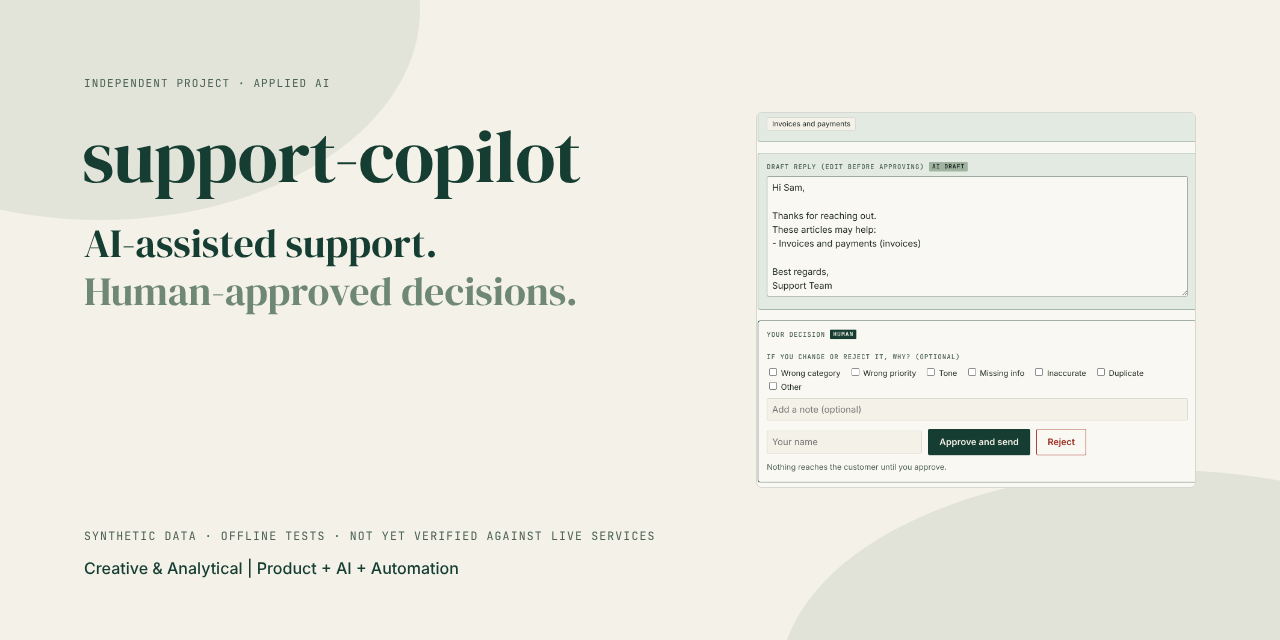
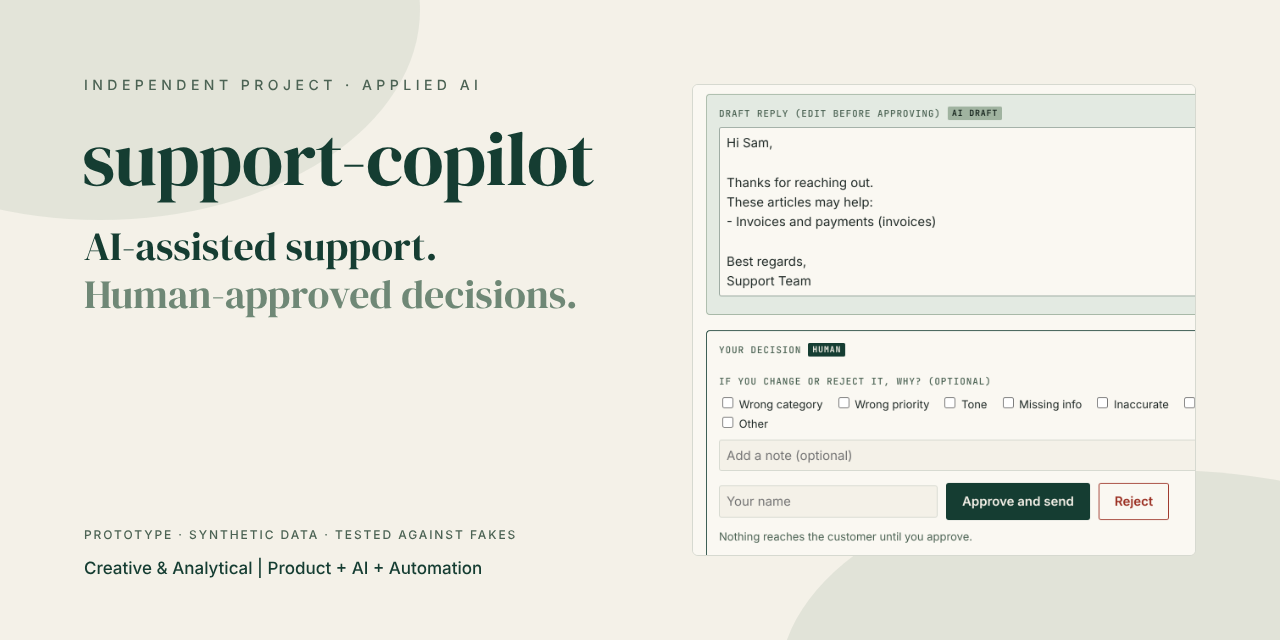
Audit images against the brand kit; README header and status table
- Social preview: two font families, larger product crop, status line; it is
  now also the README header (the old SVG cover could not load the kit fonts
  on GitHub and was off-kit).
- 4:5 graphic: official cream, one-line subtitle as in the kit template.
- Architecture footer says prototype, tested against fakes.
- README: navigation line, "What is verified" table in the kit's terms.
- docs/presentation.md: kit checklist.

Claude-Session: https://claude.ai/code/session_01QpPT1J8NubTvqn2LHj89y2

diff --git a/marketing/linkedin/src/post-graphic.html b/marketing/linkedin/src/post-graphic.html
@@ -1,20 +1,20 @@
 <!doctype html><html lang="en"><head><meta charset="utf-8"><title>support-copilot LinkedIn graphic</title>
 <link rel="stylesheet" href="../../../docs/src/brand.css">
 <style>
-body { width:1080px; height:1350px; overflow:hidden; position:relative; padding:0 66px; text-align:center; background:#F4F2EC; }
+body { width:1080px; height:1350px; overflow:hidden; position:relative; padding:0 66px; text-align:center; background:#F4F1E8; }
 .label { font: 500 24px var(--sans); letter-spacing:.42em; color: var(--charcoal); padding-top:62px; text-indent:.42em; }
 h1 { font: 400 112px/1.04 var(--serif); white-space:nowrap; letter-spacing:-.02em; color: var(--forest); margin-top:50px; }
 h1 span { color: var(--sage); display:block; }
 .sub { font: 400 29px/1.35 var(--sans); color: var(--charcoal); margin-top:50px; }
 .grid { display:grid; grid-template-columns:1fr 1fr; gap:16px; margin-top:58px; text-align:left; }
-.card { display:flex; align-items:center; gap:22px; height:108px; padding:0 22px; border:1.5px solid #D6D9D0; border-radius:18px; font: 500 28px/1.15 var(--sans); color:#10241C; }
+.card { display:flex; align-items:center; gap:22px; height:108px; padding:0 22px; border:1.5px solid #D6D9D0; border-radius:18px; font: 500 28px/1.15 var(--sans); color:var(--forest); }
 .ic { flex:none; width:64px; height:64px; border-radius:50%; background: var(--forest); display:flex; align-items:center; justify-content:center; }
-.band { margin-top:54px; padding:30px 20px; background:#DDE5DC; border:1.5px solid #D6D9D0; border-radius:18px; font: 500 30px var(--sans); color:#10241C; }
+.band { margin-top:54px; padding:30px 20px; background:#DDE5DC; border:1.5px solid #D6D9D0; border-radius:18px; font: 500 30px var(--sans); color:var(--forest); }
 .foot { position:absolute; left:66px; right:66px; bottom:44px; display:flex; justify-content:space-between; font: 400 26px var(--sans); color: var(--charcoal); }
 </style></head><body>
 <div class="label">CONCEPT PROJECT</div>
 <h1>AI prepares.<span>A person decides.</span></h1>
-<div class="sub">A copilot for support tickets. Synthetic data, offline tests,<br>every reply approved by a person.</div>
+<div class="sub">A copilot for support tickets. A person approves every reply.</div>
 <div class="grid"><div class="card"><span class="ic"><svg viewBox="0 0 24 24" width="30" height="30" fill="none" stroke="#F4F1E8" stroke-width="1.2" stroke-linecap="round" stroke-linejoin="round"><circle cx="6" cy="12" r="2.2"/><circle cx="18" cy="6" r="2.2"/><circle cx="18" cy="18" r="2.2"/><path d="M8 11.2 16 7M8 12.8 16 17"/></svg></span><span>Triage</span></div><div class="card"><span class="ic"><svg viewBox="0 0 24 24" width="30" height="30" fill="none" stroke="#F4F1E8" stroke-width="1.2" stroke-linecap="round" stroke-linejoin="round"><path d="M6 3h9l4 4v14H6zM15 3v4h4M9 12h7M9 16h7"/></svg></span><span>Grounded drafts</span></div><div class="card"><span class="ic"><svg viewBox="0 0 24 24" width="30" height="30" fill="none" stroke="#F4F1E8" stroke-width="1.2" stroke-linecap="round" stroke-linejoin="round"><path d="M4 13l2-7h12l2 7v5H4zM4 13h5l1 2h4l1-2h5"/></svg></span><span>Review queue</span></div><div class="card"><span class="ic"><svg viewBox="0 0 24 24" width="30" height="30" fill="none" stroke="#F4F1E8" stroke-width="1.2" stroke-linecap="round" stroke-linejoin="round"><path d="M6 16v-5a6 6 0 0 1 12 0v5l1.5 2h-15zM10 20a2 2 0 0 0 4 0"/></svg></span><span>Incidents and duplicates</span></div><div class="card"><span class="ic"><svg viewBox="0 0 24 24" width="30" height="30" fill="none" stroke="#F4F1E8" stroke-width="1.2" stroke-linecap="round" stroke-linejoin="round"><circle cx="12" cy="8" r="3.4"/><path d="M5.5 20c.8-3.6 3.3-5.5 6.5-5.5s5.7 1.9 6.5 5.5"/></svg></span><span>Customer context</span></div><div class="card"><span class="ic"><svg viewBox="0 0 24 24" width="30" height="30" fill="none" stroke="#F4F1E8" stroke-width="1.2" stroke-linecap="round" stroke-linejoin="round"><rect x="4" y="5" width="16" height="14" rx="1.5"/><path d="M4 10h16M10 5v14"/></svg></span><span>Feedback loop</span></div><div class="card"><span class="ic"><svg viewBox="0 0 24 24" width="30" height="30" fill="none" stroke="#F4F1E8" stroke-width="1.2" stroke-linecap="round" stroke-linejoin="round"><path d="M12 3l7 3v5c0 4.5-3 8-7 10-4-2-7-5.5-7-10V6z"/><path d="M9 12l2.2 2.2L15 10.5"/></svg></span><span>Guardrails</span></div><div class="card"><span class="ic"><svg viewBox="0 0 24 24" width="30" height="30" fill="none" stroke="#F4F1E8" stroke-width="1.2" stroke-linecap="round" stroke-linejoin="round"><rect x="4" y="4" width="16" height="6" rx="1.5"/><rect x="4" y="14" width="16" height="6" rx="1.5"/><path d="M7.5 7h.01M7.5 17h.01"/></svg></span><span>Ticket systems</span></div></div>
 <div class="band">AI proposes, deterministic rules decide, humans approve.</div>
 <div class="foot"><span>github.com/monicaslgc/support-copilot</span><span>MIT licensed</span></div>

diff --git a/docs/src/social-preview.html b/docs/src/social-preview.html
@@ -1,25 +1,26 @@
 <!doctype html><html lang="en"><head><meta charset="utf-8"><title>support-copilot social preview</title>
 <link rel="stylesheet" href="brand.css">
 <style>
+/* Two families only, as the kit asks: DM Serif Display and Inter. */
 body { width:1280px; height:640px; overflow:hidden; position:relative; }
 .blobs i:nth-child(1) { width:640px; height:420px; left:-220px; top:-200px; opacity:.2; }
 .blobs i:nth-child(2) { width:760px; height:420px; right:-260px; bottom:-250px; opacity:.22; }
+.label { font: 500 14px var(--sans); letter-spacing:.32em; text-transform:uppercase; color: var(--muted); }
 .copy { position:absolute; left:84px; top:76px; width:600px; }
-.copy .mono { color: var(--muted); }
-h1 { font: 400 74px/1.04 var(--serif); color: var(--forest); margin: 26px 0 24px -2px; letter-spacing:-.01em; }
+h1 { font: 400 76px/1.04 var(--serif); color: var(--forest); margin: 26px 0 24px -2px; letter-spacing:-.01em; }
 .tag { font: 400 40px/1.2 var(--serif); color: var(--forest); }
 .tag span { color: #6F8876; }
 .foot { position:absolute; left:84px; bottom:62px; width:600px; }
-.foot .mono { color: var(--muted); font-size: 11.5px; line-height:1.7; display:block; }
-.foot .brand { font: 500 16px var(--sans); color: var(--forest); margin-top: 12px; display:block; }
-.shot { position:absolute; right:84px; top:112px; width:440px; height:376px; overflow:hidden; border:1px solid var(--line); background: var(--paper); border-radius:6px; }
-.shot img { position:absolute; width:710px; left:-243px; top:-300px; }
+.foot .label { font-size: 12px; line-height:1.8; display:block; letter-spacing:.16em; }
+.foot .brand { font: 500 17px var(--sans); color: var(--forest); margin-top: 12px; display:block; }
+.shot { position:absolute; right:84px; top:84px; width:504px; height:472px; overflow:hidden; border:1px solid var(--line); background: var(--paper); border-radius:6px; }
+.shot img { position:absolute; width:1000px; left:-330px; top:-470px; }
 </style></head><body>
 <div class="blobs"><i></i><i></i></div>
-<div class="copy"><div class="mono">Independent project · Applied AI</div>
+<div class="copy"><div class="label">Independent project · Applied AI</div>
 <h1>support-copilot</h1>
 <div class="tag">AI-assisted support.<br><span>Human-approved decisions.</span></div></div>
-<div class="foot"><span class="mono">Synthetic data · offline tests · not yet verified against live services</span>
+<div class="foot"><span class="label">Prototype · synthetic data · tested against fakes</span>
 <span class="brand">Creative &amp; Analytical | Product + AI + Automation</span></div>
 <div class="shot"><img src="../review-queue.png" alt=""></div>
 </body></html>

diff --git a/docs/src/architecture.py b/docs/src/architecture.py
@@ -11,7 +11,7 @@ from pathlib import Path
 FOREST, CREAM, SAGE, CHAR = "#153D32", "#F4F1E8", "#A0B3A0", "#202A27"
 MUTED, BORDER, STEP, STEPB, LINE, WHITE = "#4C6354", "#D6D9D0", "#DDE5DC", "#A0B3A0", "#153D32", "#FFFFFF"
 W = 1600
-FOOTER = "Concept project · synthetic data · offline tests"
+FOOTER = "Prototype · synthetic data · tested against fakes, not live services"
 FONTS = ""   # the renderer injects the fonts
 F_DISPLAY, F_BODY, F_MONO = "'DM Serif Display', Georgia, serif", "Inter, 'DM Sans', sans-serif", "'JetBrains Mono', monospace"
 

diff --git a/README.md b/README.md
@@ -1,19 +1,14 @@
 # support-copilot
 
-[![tests](https://github.com/monicaslgc/support-copilot/actions/workflows/tests.yml/badge.svg)](https://github.com/monicaslgc/support-copilot/actions/workflows/tests.yml)
-![Python 3.11+](https://img.shields.io/badge/python-3.11%2B-153D32)
-![MIT licence](https://img.shields.io/badge/licence-MIT-A0B3A0)
-![Status: concept](https://img.shields.io/badge/status-concept%20%2F%20portfolio-202A27)
+[![tests](https://github.com/monicaslgc/support-copilot/actions/workflows/tests.yml/badge.svg)](https://github.com/monicaslgc/support-copilot/actions/workflows/tests.yml) ![Python 3.11+](https://img.shields.io/badge/python-3.11%2B-153D32) ![MIT licence](https://img.shields.io/badge/licence-MIT-A0B3A0) ![Status: concept](https://img.shields.io/badge/status-concept%20%2F%20portfolio-202A27)
 
-![support-copilot: AI can prepare the answer; a person decides what gets sent. The workflow runs from ticket through triage, draft and human review to the customer.](docs/project-cover.svg)
+![support-copilot: AI-assisted support, human-approved decisions. A review page with the AI's draft and a separate human decision panel.](docs/social-preview.png)
 
 **A human-in-the-loop AI copilot for support tickets.** It triages each ticket, finds the right help article, drafts the reply in the customer's language and warns when a draft promises something it shouldn't. **A person approves every message before it reaches the customer**, and the app measures where the AI has earned more trust.
 
+[Try it](#try-it) · [See it](#see-it-in-action) · [How it works](#how-it-works) · [What is verified](#what-is-verified) · [Docs](#documentation)
+
 > **Status: concept / portfolio project**, built from scratch with synthetic data. The Zammad and Zendesk adapters follow the vendors' documented APIs but have only been tested against stateful fakes, and the Claude calls only against a fake SDK. Nothing here has run against a live ticket system or the live API yet. See [what is not verified](docs/limitations.md).
-
-<p align="center"><img src="docs/review-queue.png" width="820" alt="The review page: the customer's ticket, the AI's triage and draft in a sage panel, and a separate bordered 'Your decision' panel with Approve and Reject."></p>
-
-<p align="center"><em>The review page (synthetic demo data). Ticket, AI suggestion and human decision are three visibly different things.</em></p>
 
 ## Why this exists
 
@@ -44,6 +39,9 @@ This project explores the cautious end of that question: **the AI only suggests,
 Eleven [user stories](docs/user-stories.md) (support agents, support leads, admins) spell out what each role needs. Each one is checked by a test, and most by a scenario you can watch run.
 
 ## See it in action
+
+<p align="center"><img src="docs/review-queue.png" width="760" alt="The review page: the customer's ticket, the AI's triage and draft in sage panels, and a separate bordered Your decision panel with Approve and Reject."></p>
+<p align="center"><em>The review page (synthetic demo data). Ticket, AI suggestion and human decision are three visibly different things.</em></p>
 
 | An outage becomes one incident | A promise gets a warning |
 |---|---|
@@ -78,12 +76,16 @@ Eleven [user stories](docs/user-stories.md) (support agents, support leads, admi
 - **Driven in a real browser** (Chromium) for the approve, reject and bulk flows and a hostile ticket that must show as text. That run is manual, not part of CI.
 - **Measured:** saving a ticket stays at about 6.5 ms from 100 to 2000 tickets in an hour. [Engineering notes](docs/engineering.md).
 
-## Current limitations
+## What is verified
 
-- It has not run against a real Zammad, Zendesk or the live Claude API.
-- Retrieval is lexical, and the rule-based fallbacks are baselines, not production classifiers.
-- The guardrails are rules with known gaps; the API key is one shared secret, not per-user auth.
-- One instance, one SQLite file. Fine for a few thousand tickets an hour, not more.
+| Area | State |
+|---|---|
+| Triage, drafts, review page, guardrails, feedback metrics | **Implemented and tested offline** (332 tests, synthetic data) |
+| Zammad and Zendesk adapters | **Prototyped:** tested against stateful fakes only, never a live instance |
+| Claude calls | **Prototyped:** tested against a fake SDK only, never the live API |
+| Retrieval and rule-based fallbacks | **Baselines:** lexical retrieval and keyword rules, not production classifiers |
+| Guardrails | **Rules with known gaps:** names and addresses are not masked, an oddly worded promise gets through |
+| Scale and auth | One instance, one SQLite file, one shared API key. A few thousand tickets an hour at most |
 
 Full list and next steps: [limitations](docs/limitations.md).
 

diff --git a/docs/presentation.md b/docs/presentation.md
@@ -25,7 +25,7 @@ In the review page the three kinds of content are kept apart on purpose: the **c
 | `review-queue.png`, `after-approval.png`, `approved-view.png`, `incident-spike.png`, `customer-context.png`, `insights.png`, `mobile-dark.png` | The running app with invented demo data | `scripts/capture_screenshots.py` |
 | `guardrails.png` | The same, with a stub model so the masking notice shows without an API key; the promise is typed in by the reviewer | `scripts/capture_screenshots.py` |
 | `architecture.png` | The flow, drawn with the author's diagram kit (`docs/src/architecture.py`) | `scripts/render_assets.py` |
-| `social-preview.png` | 1280 × 640 GitHub social preview | `scripts/render_assets.py` |
+| `social-preview.png` | 1280 × 640 GitHub social preview, also the README header | `scripts/render_assets.py` |
 | `../marketing/linkedin/images/support-copilot-4x5.png` | 1080 × 1350 LinkedIn graphic, in the kit's editorial template | `scripts/render_assets.py` |
 
 ```bash
@@ -35,6 +35,20 @@ python scripts/render_assets.py
 ```
 
 Neither script is part of CI. Screenshots were rendered with Inter, JetBrains Mono and DM Serif Display.
+
+## Kit checklist
+
+What each image was checked against (from the author's LinkedIn Media Kit):
+
+| Rule | How it is met |
+|---|---|
+| Official palette, no neon, purple, intense gradients or 3D | Cream, Sage, Dark green, Charcoal and Muted green only; rust and ochre only on warnings in the app |
+| At most two families per piece | Social preview and LinkedIn graphic use DM Serif Display and Inter. The diagram and the app also use JetBrains Mono for technical labels, as the kit's diagram tool does |
+| Formats | 4:5 (1080 × 1350) for the post graphic, 16:9 for the diagram, 2:1 (1280 × 640) for the GitHub social preview |
+| One idea per image, short title, plenty of space | The graphic says one thing: AI prepares, a person decides |
+| No dashes or arrows in the text of an image | Titles and labels use full stops, commas and middle dots. The diagram's flow lines are drawn, not typed |
+| Nothing invented | Screenshots come from the running app with synthetic data; the graphic lists the README's eight capabilities; status labels say prototype, tested against fakes |
+| No robots, digital brains or circuit decoration | Line icons of real concepts only (inbox, document, shield) |
 
 ## Social preview
 
